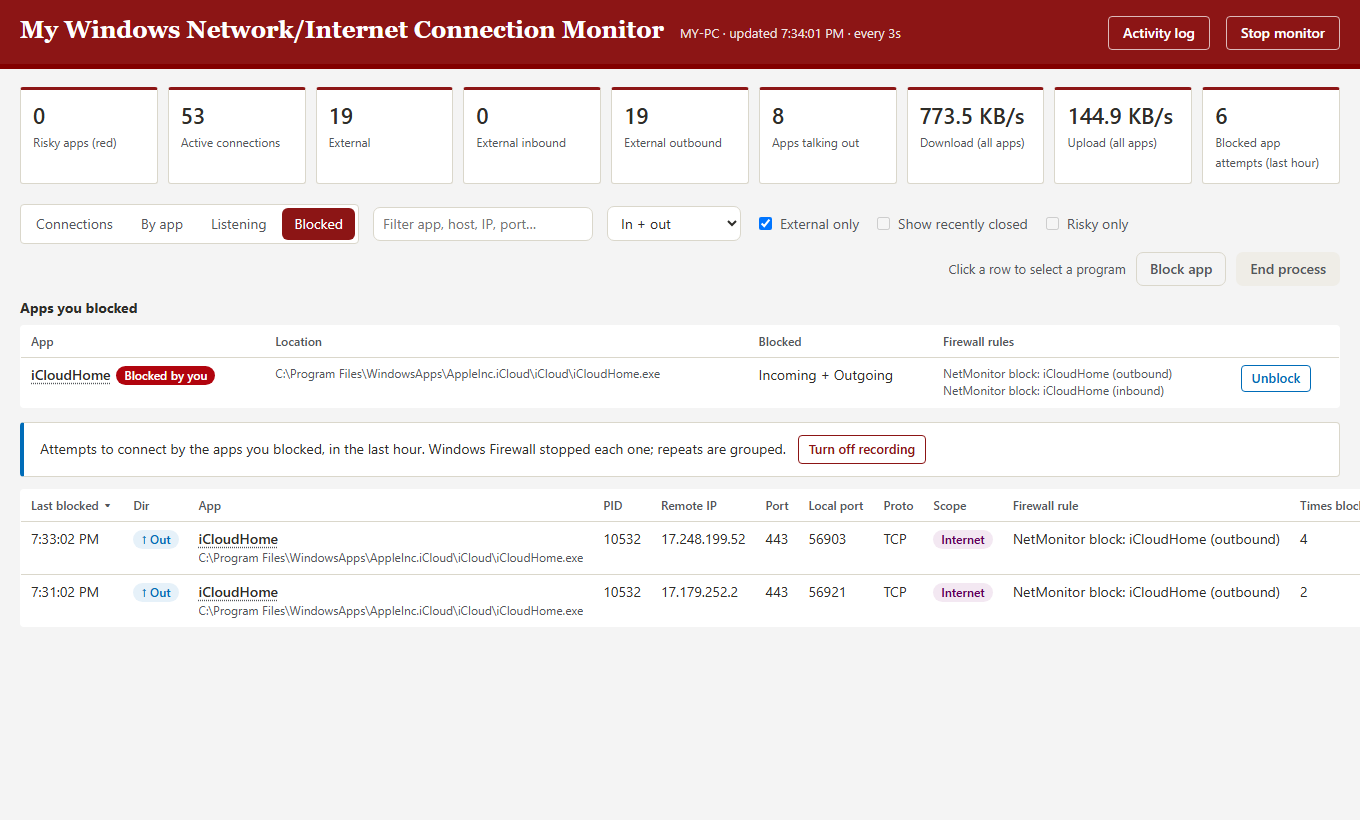
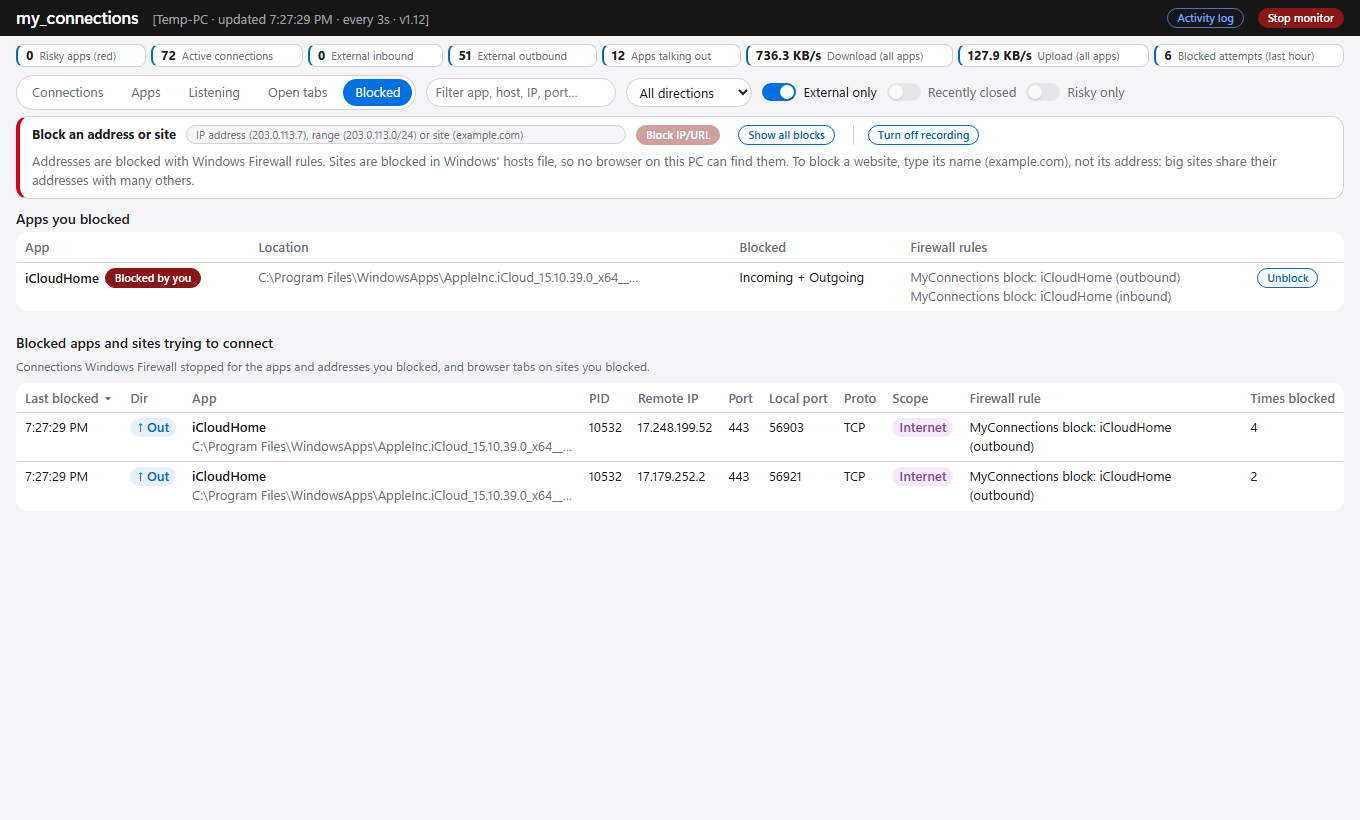
Guide: new screenshots of the current my_connections dashboard

diff --git a/ConnectionMonitorPy/GUIDE.md b/ConnectionMonitorPy/GUIDE.md
@@ -2,7 +2,7 @@
 
 A small app that shows, live in your browser, every network connection your Windows PC is making, names the app behind each one, flags anything risky, and lets you stop or block apps.
 
-*Screenshots: taken with an earlier version, so the look and some button names differ slightly (it now has a light page with a black header, and Block app also closes the app). The PC name and Windows user name are hidden; the Blocked tab shows example data.*
+*Screenshots: the PC name and Windows user name are hidden; the Blocked tab shows example data.*
 
 ---
 
